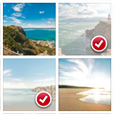
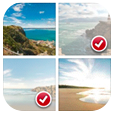
[demo] selection limit example, UI update.

diff --git a/demo/WSMainViewController.m b/demo/WSMainViewController.m
@@ -27,6 +27,8 @@
 @property (strong, nonatomic) UIActivityIndicatorView *activityView;
 @property (weak, nonatomic) IBOutlet UIScrollView *scrollView;
 @property (weak, nonatomic) IBOutlet UIPageControl *pageControl;
+@property (strong, nonatomic) IBOutlet UIButton *unlimitedPickButton;
+@property (strong, nonatomic) IBOutlet UIButton *limitedPickButton;
 @property (nonatomic, readwrite) BOOL pageControlInUse;
 @end
 
@@ -39,6 +41,7 @@
         
         _activityView =
         [[UIActivityIndicatorView alloc] initWithActivityIndicatorStyle:UIActivityIndicatorViewStyleWhiteLarge];
+        [_activityView setColor:[UIColor darkGrayColor]];
         [self.view addSubview:_activityView];
     }
     return _activityView;
@@ -46,9 +49,9 @@
 
 - (void)setScrollView:(UIScrollView *)scrollView
 {
-    scrollView.layer.cornerRadius = 5.f;
-    scrollView.layer.borderWidth = 2.f;
-    scrollView.layer.borderColor = [UIColor darkGrayColor].CGColor;
+    scrollView.layer.cornerRadius = 4.f;
+    scrollView.layer.borderWidth = 1.f;
+    scrollView.layer.borderColor = [UIColor colorWithWhite:0.5 alpha:0.5].CGColor;
     _scrollView = scrollView;
 }
 
@@ -56,6 +59,24 @@
 {
     pageControl.numberOfPages = 0;
     _pageControl = pageControl;
+}
+
+- (void)viewDidLoad
+{
+    [super viewDidLoad];
+    
+    void (^styleButton)(UIButton *) =
+    ^(UIButton *button) {
+        
+        [button setBackgroundColor:[UIColor clearColor]];
+        UIImage *image = [UIImage imageNamed:@"WSButtonBackground"];
+        UIImage *pressedImage = [UIImage imageNamed:@"WSButtonBackgroundPressed"];
+        [button setBackgroundImage:[image resizableImageWithCapInsets:UIEdgeInsetsMake(26, 7, 3, 7)] forState:UIControlStateNormal];
+        [button setBackgroundImage:[pressedImage resizableImageWithCapInsets:UIEdgeInsetsMake(26, 7, 3, 7)] forState:UIControlStateHighlighted];
+    };
+    
+    styleButton(self.unlimitedPickButton);
+    styleButton(self.limitedPickButton);
 }
 
 - (void)viewWillLayoutSubviews
@@ -71,7 +92,8 @@
 - (IBAction)pick:(id)sender
 {
     self.pickerController = [[WSAssetPickerController alloc] initWithDelegate:self];
-    self.pickerController.selectionLimit = 5;
+    if ([sender isEqual:self.limitedPickButton])
+        self.pickerController.selectionLimit = 5;
     
     [self presentViewController:self.pickerController animated:YES completion:NULL];
 }
@@ -144,18 +166,15 @@
         
         for (ALAsset *asset in assets) {
             
-            CGRect imageViewFrame;
-            imageViewFrame.origin.x = self.scrollView.frame.size.width * index;
-            imageViewFrame.origin.y = 0;
-            imageViewFrame.size = self.scrollView.frame.size;
-           
+            CGFloat padding = 10.0;
+            CGRect imageViewFrame = CGRectInset(self.scrollView.bounds, padding, padding);
+            imageViewFrame.origin.x = self.scrollView.frame.size.width * index + padding;
             
             UIImage *image = [[UIImage alloc] initWithCGImage:asset.defaultRepresentation.fullScreenImage];
             UIImageView *imageView = [[UIImageView alloc] initWithImage:image];
-            imageView.clipsToBounds = YES;
-            imageView.contentMode = UIViewContentModeScaleAspectFill;
             imageView.frame = imageViewFrame;
-            
+            imageView.contentMode = UIViewContentModeScaleAspectFit;
+
             index++;
             
             [self.scrollView addSubview:imageView];
